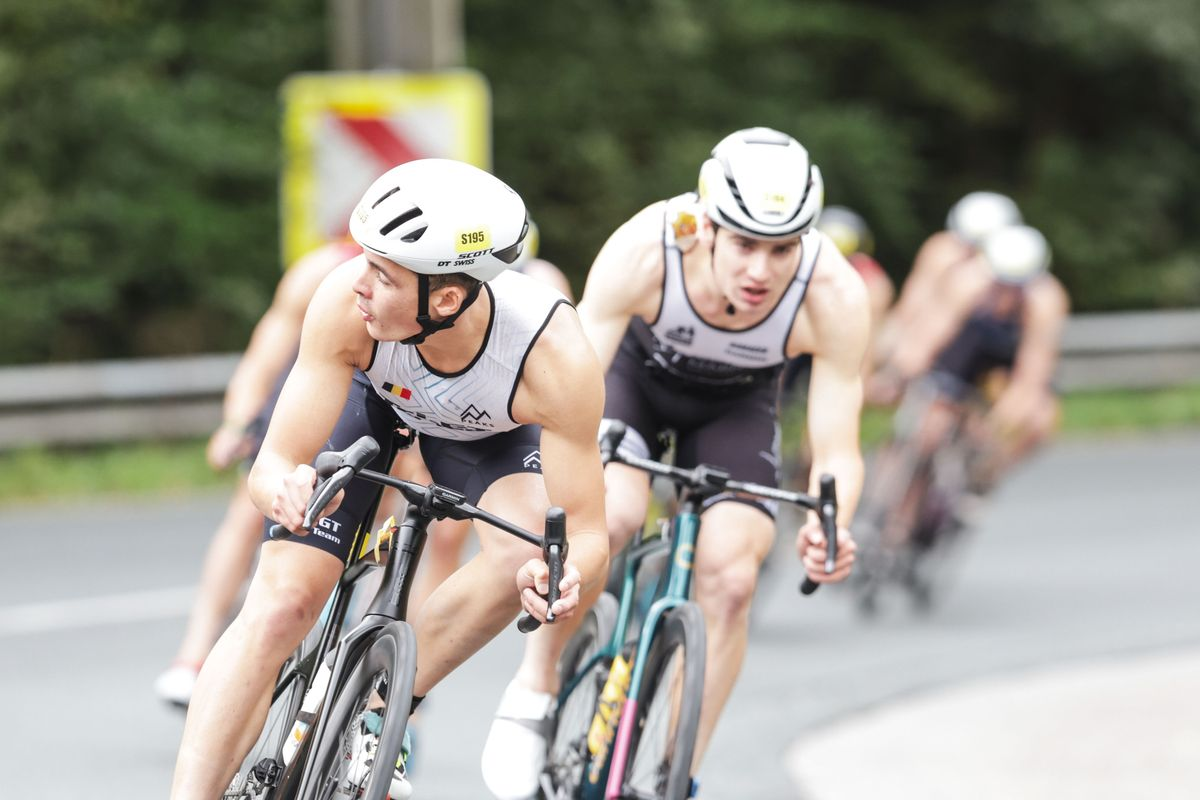
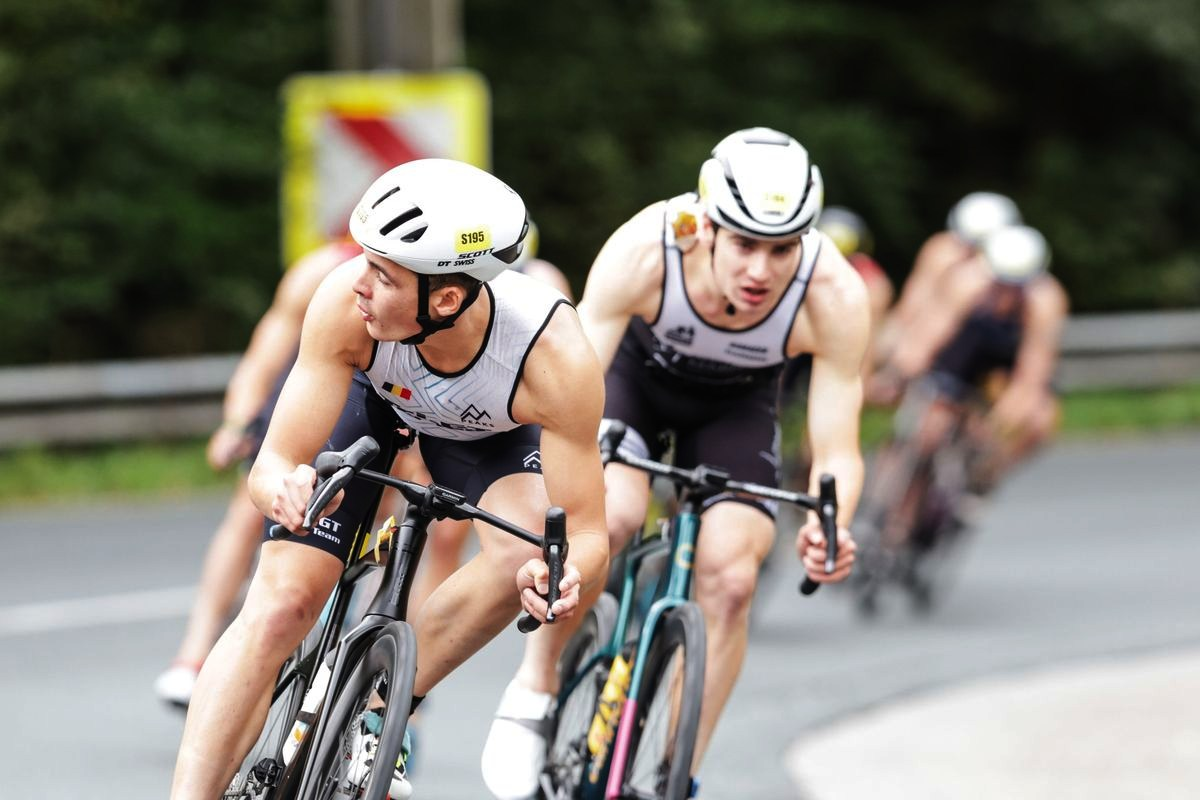
Website bijgewerkt

diff --git a/coaching.html b/coaching.html
@@ -406,7 +406,7 @@
         <!-- Standaard alles dicht; zodra de sectie in beeld is gaan ze één voor één vanzelf open, tot je er zelf op klikt. Tekst: Neal, 9 nov 2026 -->
         <div class="principles reveal" id="principles">
           <div class="pr"><button type="button" aria-controls="pr-1" aria-expanded="false">Iedere atleet is uniek. Iedere training heeft een doel.</button><div class="pr-body" id="pr-1"><div><p>Iedere atleet heeft zijn eigen ambities, mogelijkheden en uitdagingen. Daarom geloof ik in een persoonlijke aanpak, waarbij elke training een duidelijk doel heeft binnen een doordacht langetermijnplan.</p><p>Door rekening te houden met je capaciteiten, herstel en omstandigheden buiten de sport, stemmen we de trainingsbelasting af op wat voor jou haalbaar en effectief is. Zo bouwen we op een efficiënte en verantwoorde manier aan consistente vooruitgang, ongeacht je niveau of beschikbare tijd.</p></div></div></div>
-          <div class="pr"><button type="button" aria-controls="pr-2" aria-expanded="false">Je potentieel kent geen vast eindpunt.</button><div class="pr-body" id="pr-2"><div><p>Ik geloof dat potentieel niet vaststaat, maar voortdurend verder ontwikkeld kan worden. Wat vandaag de grens lijkt, hoeft dat morgen niet meer te zijn.</p><p>Als atleet en coach probeer ik zelf steeds de lat hoger te leggen. Niet door simpelweg meer of harder te werken, maar door kritisch te blijven, bij te leren en te zoeken naar manieren om beter te worden. Die ingesteldheid vormt ook de basis van mijn coaching.</p></div></div></div>
+          <div class="pr"><button type="button" aria-controls="pr-2" aria-expanded="false">Je potentieel staat niet vast.</button><div class="pr-body" id="pr-2"><div><p>Ik geloof dat potentieel niet vaststaat, maar voortdurend verder ontwikkeld kan worden. Wat vandaag de grens lijkt, hoeft dat morgen niet meer te zijn.</p><p>Als atleet en coach probeer ik zelf steeds de lat hoger te leggen. Niet door simpelweg meer of harder te werken, maar door kritisch te blijven, bij te leren en te zoeken naar manieren om beter te worden. Die ingesteldheid vormt ook de basis van mijn coaching.</p></div></div></div>
           <div class="pr"><button type="button" aria-controls="pr-3" aria-expanded="false">Meer dan prestaties alleen.</button><div class="pr-body" id="pr-3"><div><p>Het najagen van ambities is een proces waarin je voortdurend keuzes maakt, ontdekt wat werkt en leert uit wat anders loopt dan verwacht. Wie daarvoor openstaat, kan uit die ervaringen inzichten halen die ook op andere vlakken van het leven waardevol zijn.</p><p>Hoeveel plaats sport inneemt, verschilt van persoon tot persoon. Voor een topsporter kan die terecht de hoogste prioriteit hebben, terwijl anderen hun trainingen combineren met werk, gezin of andere verantwoordelijkheden. In beide gevallen wil ik een aanpak vinden die jouw ambities maximaal ondersteunt en tegelijk op lange termijn haalbaar blijft.</p></div></div></div>
           <p class="philo-close">Dat is Beyond Performance.</p>
           <button type="button" class="pr-toggle" aria-pressed="false" hidden>Automatisch wisselen pauzeren</button>
@@ -437,7 +437,7 @@
         </a>
         <p class="label programs-sub reveal">Of focus op één sport</p>
         <a class="program reveal" href="#contact" data-program="Zwemmen">
-          <img src="photos/coaching/zwemmen.jpg" width="1200" height="800" loading="lazy" alt="Neal Van Vaerenbergh in het zwembad, met badmuts en zwembril">
+          <img src="photos/coaching/zwemmen.jpg?v=2" width="1200" height="800" loading="lazy" alt="Neal Van Vaerenbergh in het zwembad, met badmuts en zwembril">
           <div>
             <h3>Zwemmen</h3>
             <p class="sub">Techniek &amp; prestatieontwikkeling</p>
@@ -445,7 +445,7 @@
           </div>
         </a>
         <a class="program reveal" href="#contact" data-program="Fietsen">
-          <img src="photos/coaching/fietsen.jpg" width="1200" height="800" loading="lazy" alt="Neal Van Vaerenbergh stuurt zijn fiets door een bocht tijdens een wedstrijd">
+          <img src="photos/coaching/fietsen.jpg?v=2" width="1200" height="800" loading="lazy" alt="Neal Van Vaerenbergh stuurt zijn fiets door een bocht tijdens een wedstrijd">
           <div>
             <h3>Fietsen</h3>
             <p class="sub">Doelgericht sterker worden</p>
